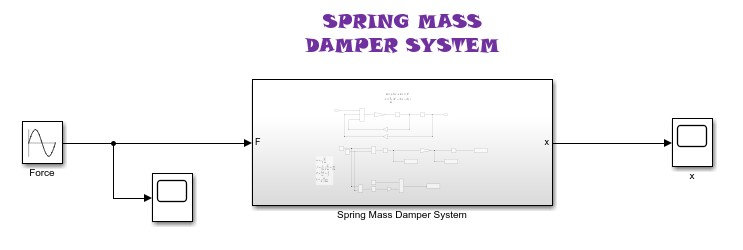
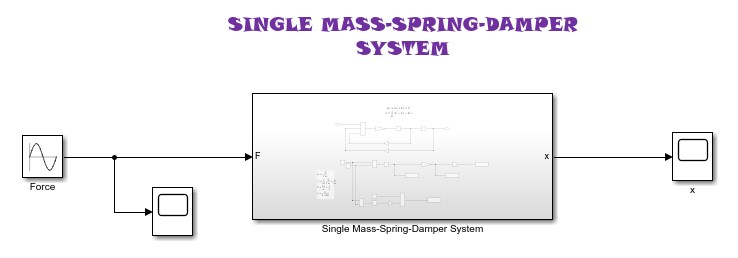
Renamed files and schematics

diff --git a/param.m b/param.m
@@ -1,4 +1,4 @@
-%% Spring Mass Damper System
+%% Mass-Spring-Damper System Simulation
 clc, clear
 
 m = 1;
